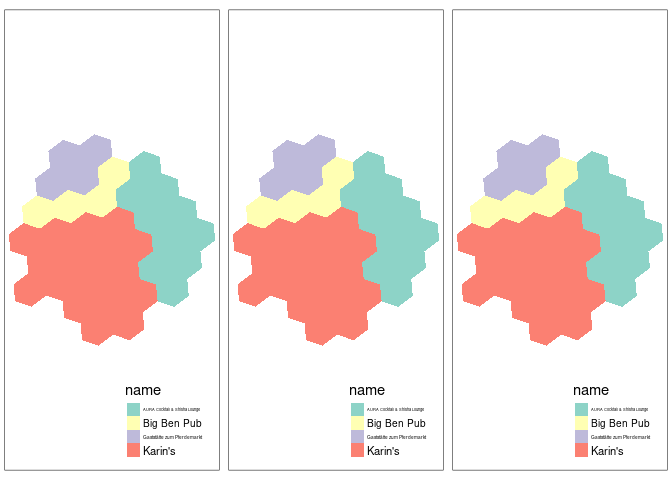
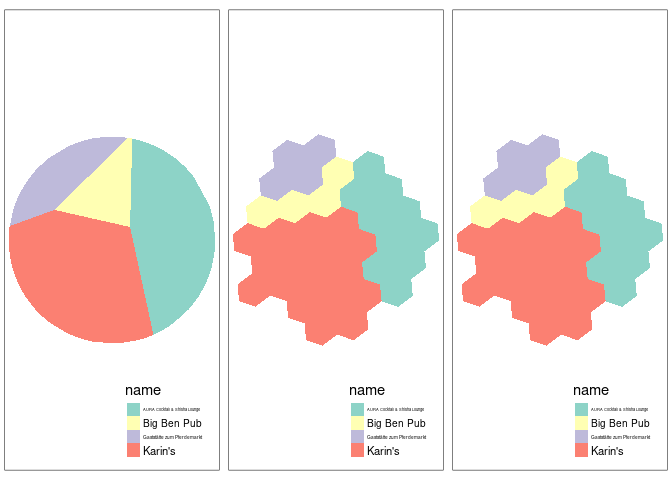
Update readme

Changed region(s): [[0.0, 0.2812, 0.3438, 0.7188]]

diff --git a/README.md b/README.md
@@ -53,14 +53,19 @@ library(tmap)
 #> package maintainers should consider adding sf to Suggests:.
 #> The sp package is now running under evolution status 2
 #>      (status 2 uses the sf package in place of rgdal)
-# m1 = iso_voronoi(x) # TODO
+poly = sf::st_convex_hull(sf::st_union(x))
+vnoi = iso_vnoi(points, poly) # TODO
+#> Warning in st_voronoi.sfc(sf::st_union(points), poly): st_voronoi does not
+#> correctly triangulate longitude/latitude data
+#> Warning: attribute variables are assumed to be spatially constant throughout
+#> all geometries
 vgrid = iso_vgrid(points, grid)
 #> lon-lat points
 #> Warning: st_centroid assumes attributes are constant over geometries
-# plot(vgrid[19, ])
+m1 = tm_shape(vnoi) + tm_fill("name")
 m2 = tm_shape(vgrid) + tm_fill("name")
 # m3 = iso_osrm(x) # TODO
-tmap_arrange(m2, m2, m2, nrow = 1)
+tmap_arrange(m1, m2, m2, nrow = 1)
 #> Some legend labels were too wide. These labels have been resized to 0.24, 0.62, 0.29. Increase legend.width (argument of tm_layout) to make the legend wider and therefore the labels larger.
 #> Some legend labels were too wide. These labels have been resized to 0.24, 0.62, 0.29. Increase legend.width (argument of tm_layout) to make the legend wider and therefore the labels larger.
 #> Some legend labels were too wide. These labels have been resized to 0.24, 0.62, 0.29. Increase legend.width (argument of tm_layout) to make the legend wider and therefore the labels larger.
